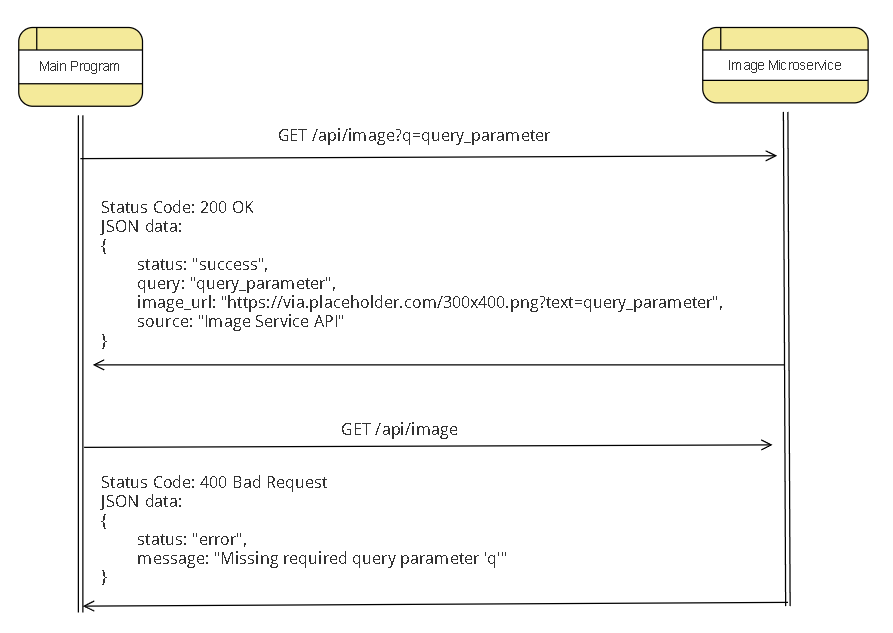
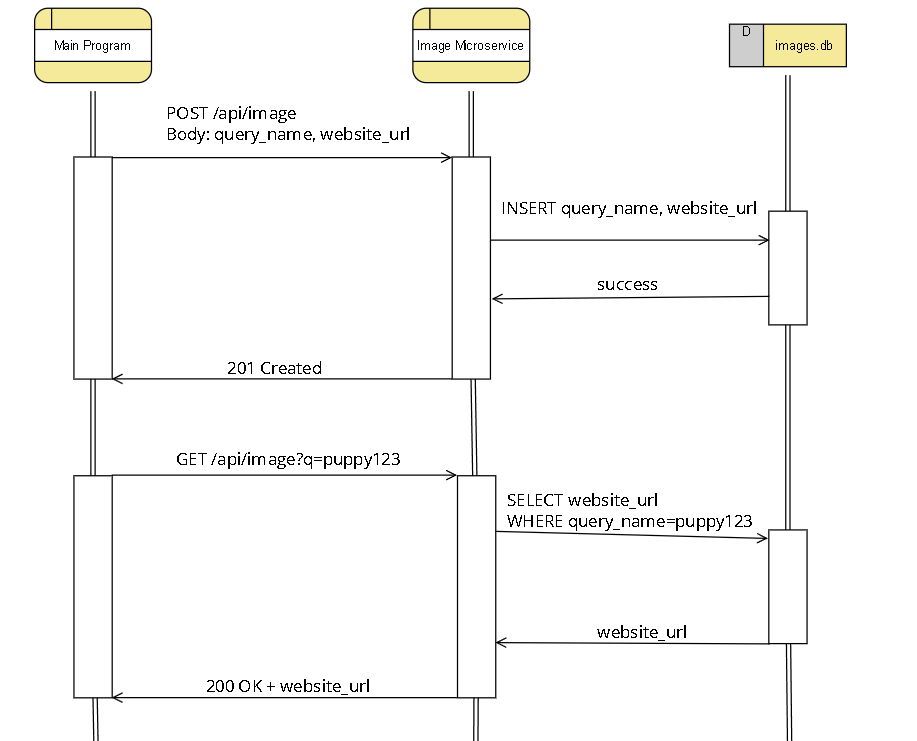
Edited README.md and changed UML_sequence_diagram.png

diff --git a/image-service/README.md b/image-service/README.md
@@ -13,7 +13,24 @@ In order to request data from the microservice, the developer needs to send a HT
 
 
 ## Example REQUEST in JavaScript using fetch()
-For this example, we will assume that you are running this microservice in the same computer as the program that will be requesting the image URL. For this example, we will use `fetch()`.
+For this example, we will assume that you are running this microservice in the same computer as the program that will be requesting the image URL. 
+
+First, we need to do a POST request to the microservice to save an image name and website url pair. 
+
+```
+const postResponse = await fetch(`http://localhost:5001/api/image`, {
+            method: "POST",
+            headers: {
+                "Content-Type": "application/json"
+            },
+            body: JSON.stringify({
+                query_name: "puppy123",
+                website_url: "https://example.com/puppy123.jpg"
+            })
+        });
+```
+
+With that you just sent the image name `puppy123` and the website URL attached to it `https://example.com/puppy123.jpg`. So now when you do a GET request with the query parameter `puppy123`, the microservice should return that website URL.
 
 Here is an example where we want the image URL of puppy123:
 `const response = await fetch('http://localhost:5001/api/image?q=puppy123');`
@@ -22,21 +39,30 @@ We recommend that you actually do:
 `const imageName = "puppy123";`
 `const response = await fetch(`http://localhost:5001/api/image?q=${endcodedURIComponent(imageName)}`);`
 This is because if the name of the image has special characters such as spaces, it will cause an error.
-So please use `encodedURIComponent()`.
+So, please use `encodedURIComponent()`.
 
 # How to RECEIVE data from the microservice using json()
 At this step, we assume you made the same call as the example shown above. 
 
-If successful we should expect a status code of 200. The variable `response` should have the response from the microservice. In order to extract the JSON from the response, we will use `json()`.
+If successful we should expect a status code of 200. The variable `response` should have the response from the microservice.
 
 Here is an example where we want to get the JSON data from the response:
 `const jsonData = await response.json();`
 
 We expect the variable `jsonData` to hold the following data:
-`{status: "success", query: "puppy123",  image_url: "https://via.placeholder.com/300x400.png?text=puppy123", source: "Image Service API"}` 
+`{status: "success", query: "puppy123",  image_url: "https://example.com/puppy123.jpg", source: "Image Service API"}` 
 
-If the request was not successful due to missing query parameter, you should expect a status code of 400 from the response and a data of:
+If the request was not successful due to missing query parameter, you should expect a status code of 404 from the response and a data of:
 `{status: "error", message: "Missing required query parameter 'q'"}`
+
+If you try to do a GET request of an image name that the microservice does not have it will return a generic place holder URL for `image_url`. For example, GET request of `cat123`:
+```
+        {
+            status: "resource not found",
+            query: "cat123",
+            image_url: `https://via.placeholder.com/300x400.png?text=cat123`,
+        }
+```
 
 # UML Sequence Diagram
 ![UML Sequence Diagram](docs/UML_sequence_diagram.png)
